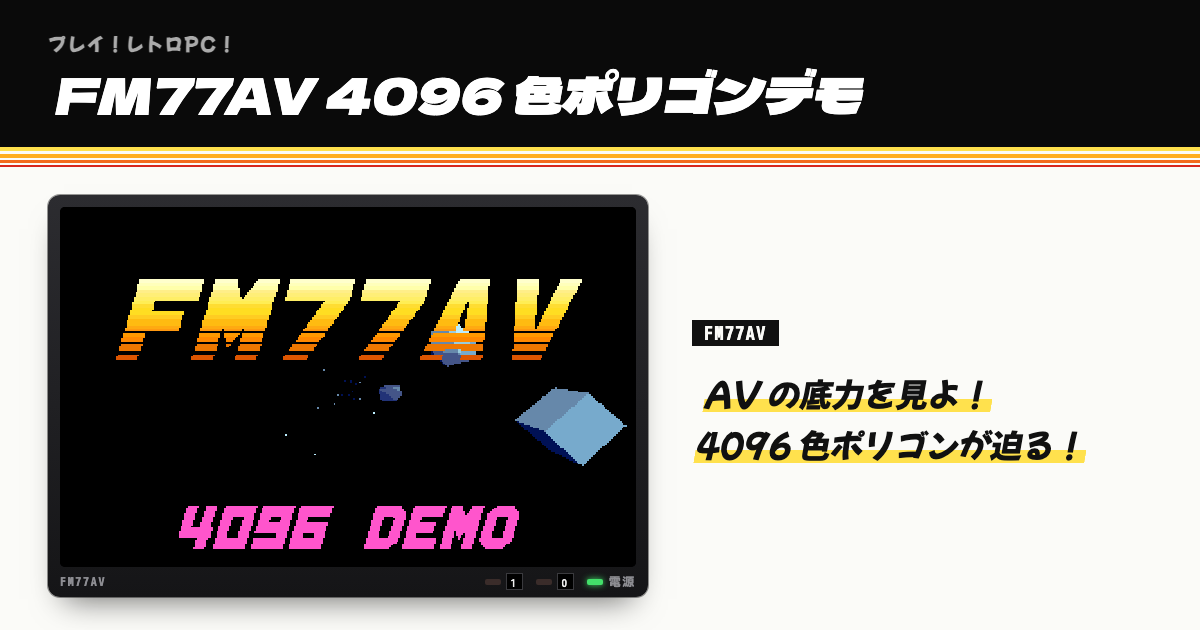
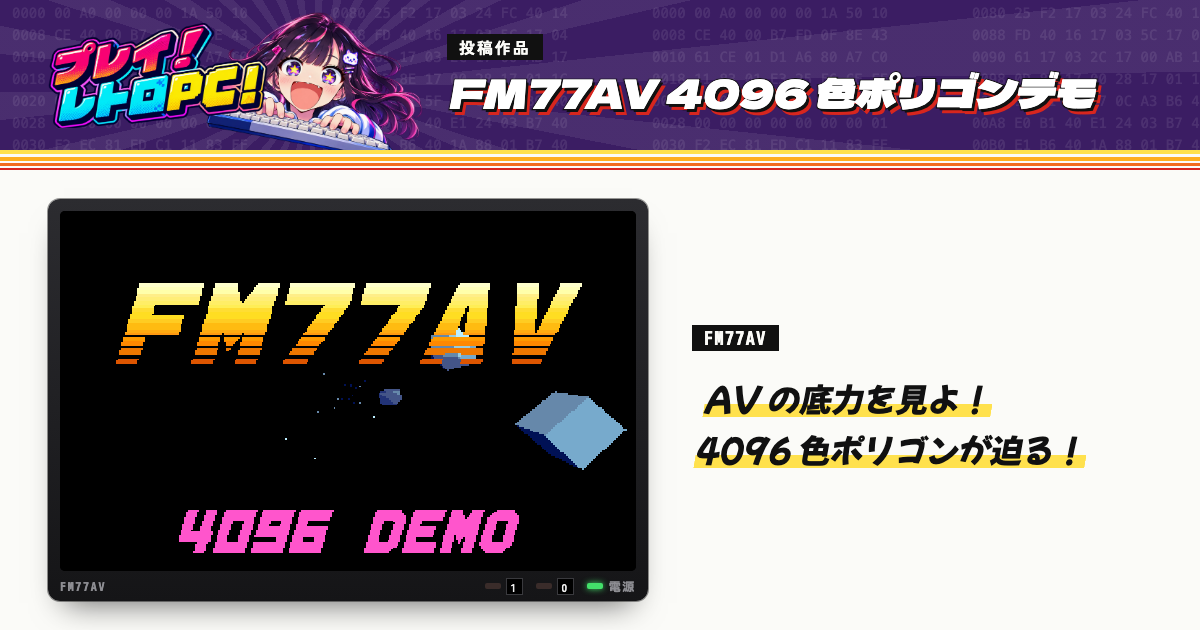
feat: OGP 画像を今のヘッダーに合わせる
- 作品の OGP 画像の帯を、サイトの題の帯（ぶどう色の地、ロゴと女の子、「投稿作品」と題名）と同じ作りにする
- トップの OGP 画像の一文を、トップの紹介文に合わせる

diff --git a/tools/ogimage.py b/tools/ogimage.py
@@ -29,10 +29,22 @@ FONTS = ('https://fonts.googleapis.com/css2?family=Dela+Gothic+One&family=Mochiy
 # 1200×630 の紙面に共通の CSS（色は site/base.css と同じ）
 CSS = '''
 * { box-sizing: border-box; }
+html { --grape-bg: url(HEXDUMP) 0 0 / 640px 352px, #3b1d63; }
 html, body { margin: 0; width: 1200px; height: 630px; overflow: hidden; background: #fbfbf8; color: #111;
   font-family: "Zen Kaku Gothic New", sans-serif; }
-.band { background: #0a0a0a; color: #fff; }
-.site { font: 700 18px "M PLUS 1 Code", monospace; letter-spacing: .2em; color: #aaa; }
+.band { position: relative; isolation: isolate; overflow: hidden; display: flex; align-items: center; gap: 24px;
+  height: 150px; padding: 0 48px; background: var(--grape-bg); }
+.burst { position: absolute; left: var(--bx); top: var(--by); width: 3000px; height: 3000px; transform: translate(-50%, -50%);
+  z-index: -1; background: repeating-conic-gradient(rgba(255,255,255,.075) 0 5deg, transparent 5deg 12deg); }
+.art { flex: none; position: relative; width: 375px; height: 100%; }
+.art img { position: absolute; display: block; width: auto; }
+.art .logo { left: 0; top: 15%; height: 70%; z-index: 1; }
+.art .chara { right: 0; bottom: -8%; height: 100%; }
+.kind { display: inline-block; padding: 1px 12px; background: #111; color: #fbfbf8; font: 700 16px "Zen Kaku Gothic New", sans-serif;
+  letter-spacing: .12em; }
+.ttl h1 { margin: 8px 0 0; font: normal 40px/1.2 "Dela Gothic One", sans-serif; color: #fff; -webkit-text-stroke: 3px #111;
+  paint-order: stroke fill; text-shadow: 3px 3px 0 #111, 6px 6px 0 #d7261e; transform: skewX(-10deg); transform-origin: left bottom;
+  text-wrap: balance; }
 .stripes { height: 20px; background: linear-gradient(#ffe14d 0 22%, transparent 22% 33%, #ffae1f 33% 55%,
   transparent 55% 66%, #f26b1d 66% 82%, transparent 82% 88%, #d7261e 88%); }
 .mon { padding: 12px 12px 0; border-radius: 12px; background: linear-gradient(#2c2c30, #151517);
@@ -62,15 +74,19 @@ def monitor(img, w, h, label=''):
 
 
 def work_page(w, thumb):
+    """作品: 上にサイトの題の帯（ぶどう色の地にダンプと集中線、ロゴと女の子、「投稿作品」と題名）、下にモニターに入れた
+    サムネイル（thumb.png）と、機種の札とキャッチコピー"""
     e = html.escape
     label = 'FM77AV40' if w.get('av40') else 'FM77AV'
     catch = e(w.get('catch', '')).replace('\n', '<br>')
-    return f'''<div class="band" style="padding:30px 48px 0">
-  <div class="site" style="font-family:'Mochiy Pop One',sans-serif;letter-spacing:.08em">プレイ！レトロPC！</div>
-  <div class="disp" style="font-size:50px;line-height:1.25;margin-top:6px;padding-bottom:22px">{e(w["title"])}</div>
+    img = ROOT / 'site/img'
+    return f'''<div class="band" style="--bx:315px;--by:87px">
+  <div class="burst"></div>
+  <div class="art"><img class="chara" src="{(img / 'header_chara_1200.avif').as_uri()}"><img class="logo" src="{(img / 'header_logo_1280.avif').as_uri()}"></div>
+  <div class="ttl"><span class="kind">投稿作品</span><h1>{e(w["title"])}</h1></div>
 </div>
 <div class="stripes"></div>
-<div style="display:flex;gap:44px;align-items:center;padding:28px 48px">
+<div style="display:flex;gap:44px;align-items:center;padding:29px 48px">
   {monitor(thumb, 576, 360, label)}
   <div style="flex:1;min-width:0">
     <span class="badge">{label}</span>
@@ -92,14 +108,18 @@ def top_page(thumbs):
   <img src="{logo.as_uri()}" style="position:absolute;left:-112px;top:104px;height:310px">
 </div>
 <div class="stripes"></div>
-<div style="height:90px;display:grid;place-items:center;font-size:30px;font-weight:700;color:#111">
-  レトロ PC の作品を、ブラウザーでそのまま遊べます。</div>'''
+<div style="height:90px;display:grid;place-items:center;font-size:28px;font-weight:700;color:#111">
+  1980 年代のパソコン向けのオリジナル作品を、ブラウザーでそのまま遊べます。</div>'''
+
+
+def page_css():
+    return CSS.replace('HEXDUMP', (ROOT / 'site/img/hexdump.svg').as_uri())
 
 
 def shoot(body, out):
     """out が .jpg なら、撮った PNG を JPEG（品質 82）に直す"""
     page = (f'<!doctype html><html lang="ja"><head><meta charset="utf-8">'
-            f'<link rel="stylesheet" href="{FONTS}"><style>{CSS}</style></head><body>{body}</body></html>')
+            f'<link rel="stylesheet" href="{FONTS}"><style>{page_css()}</style></head><body>{body}</body></html>')
     with tempfile.TemporaryDirectory() as tmp:
         src = Path(tmp) / 'og.html'
         src.write_text(page)
